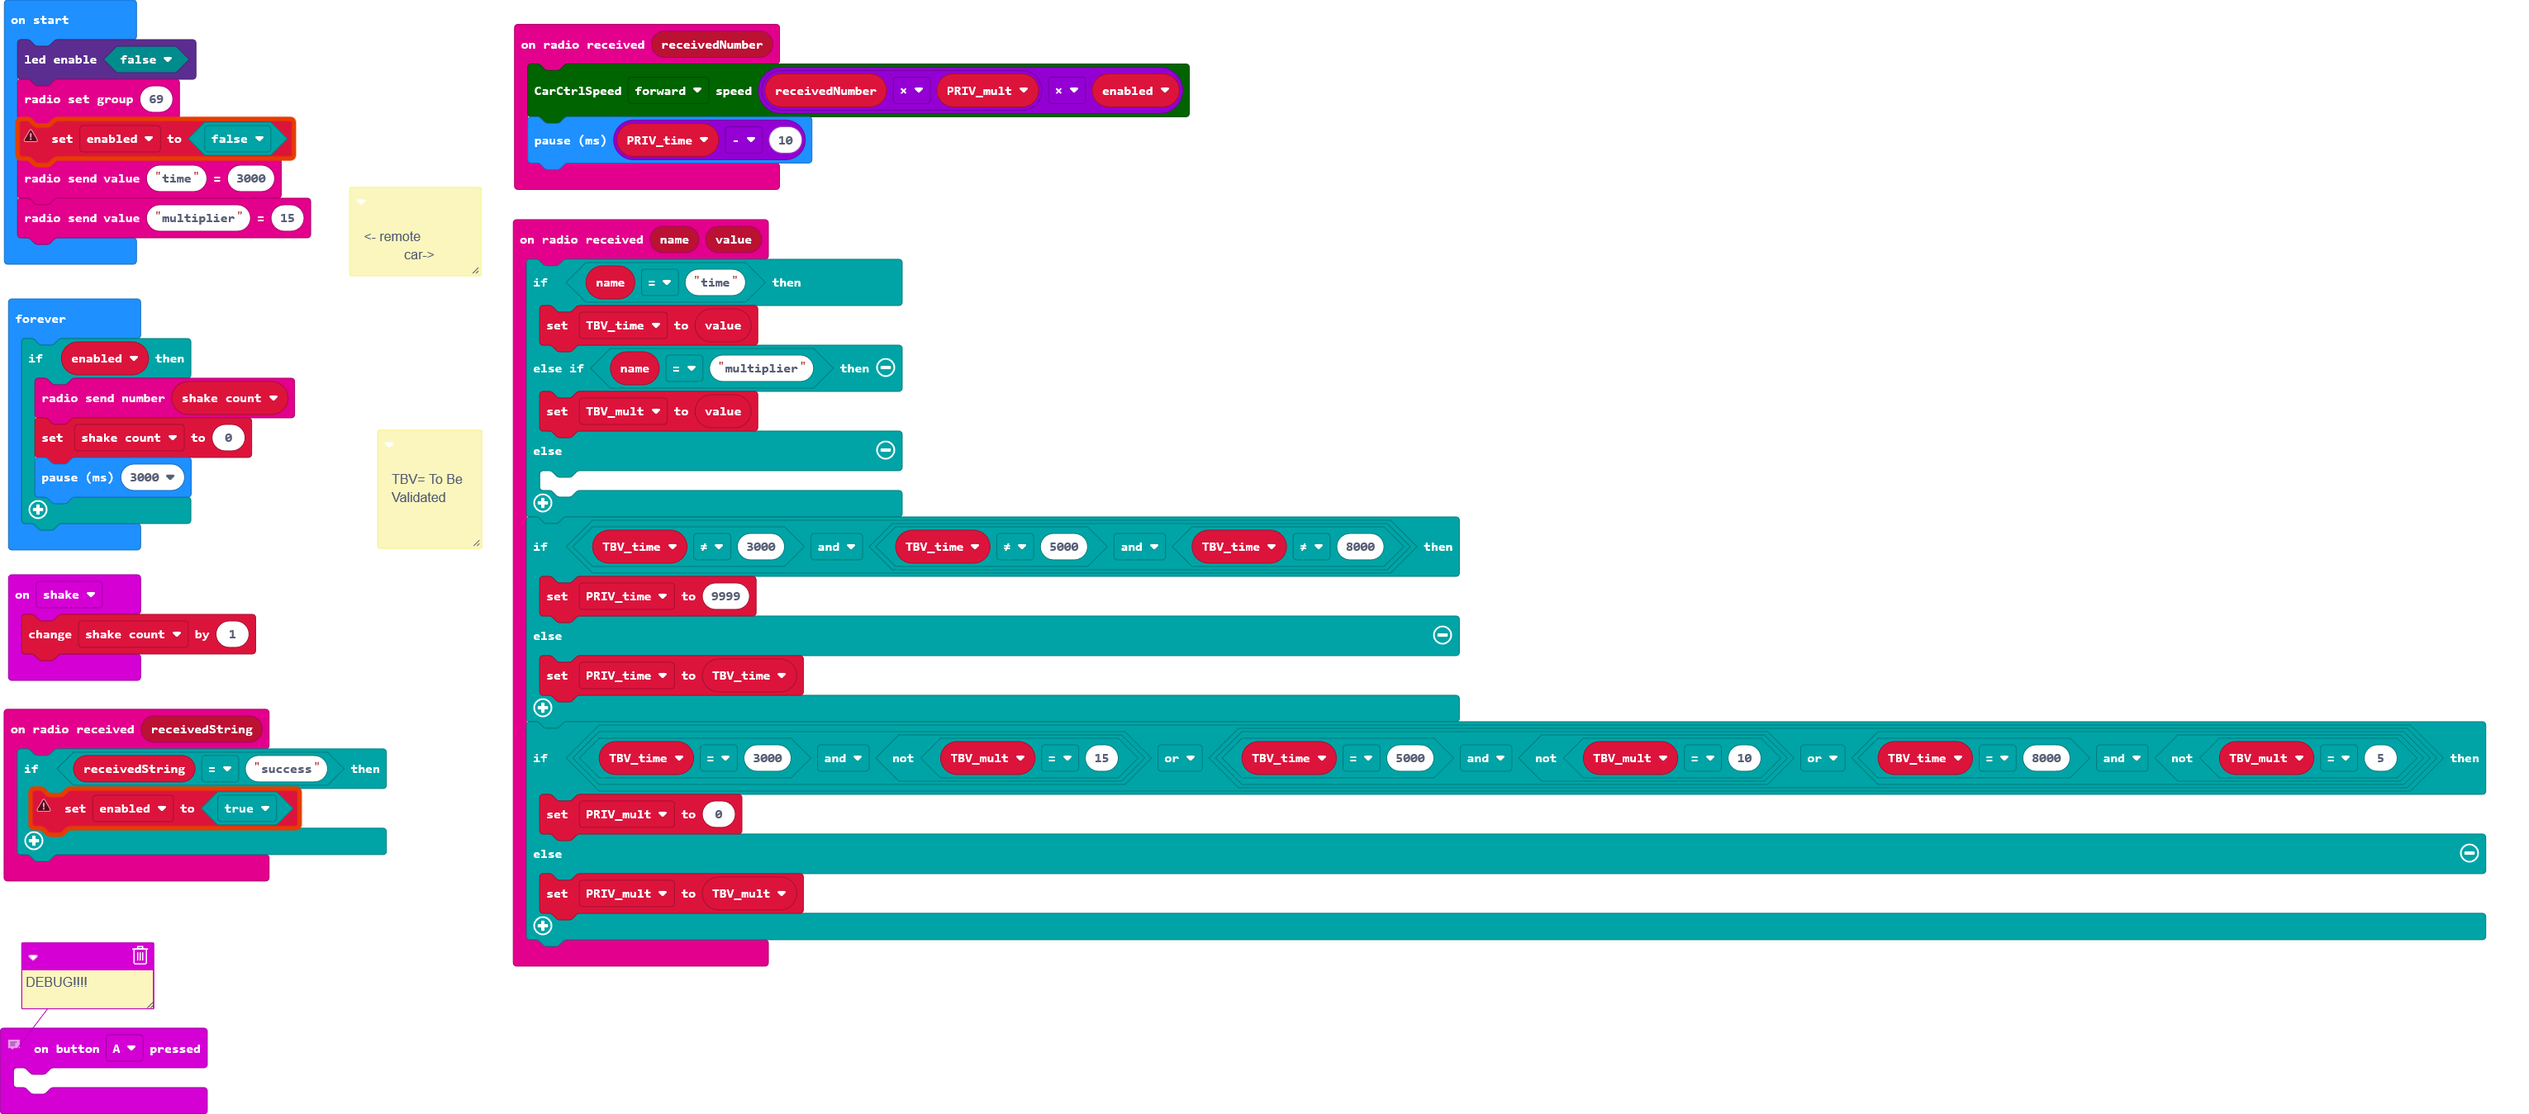
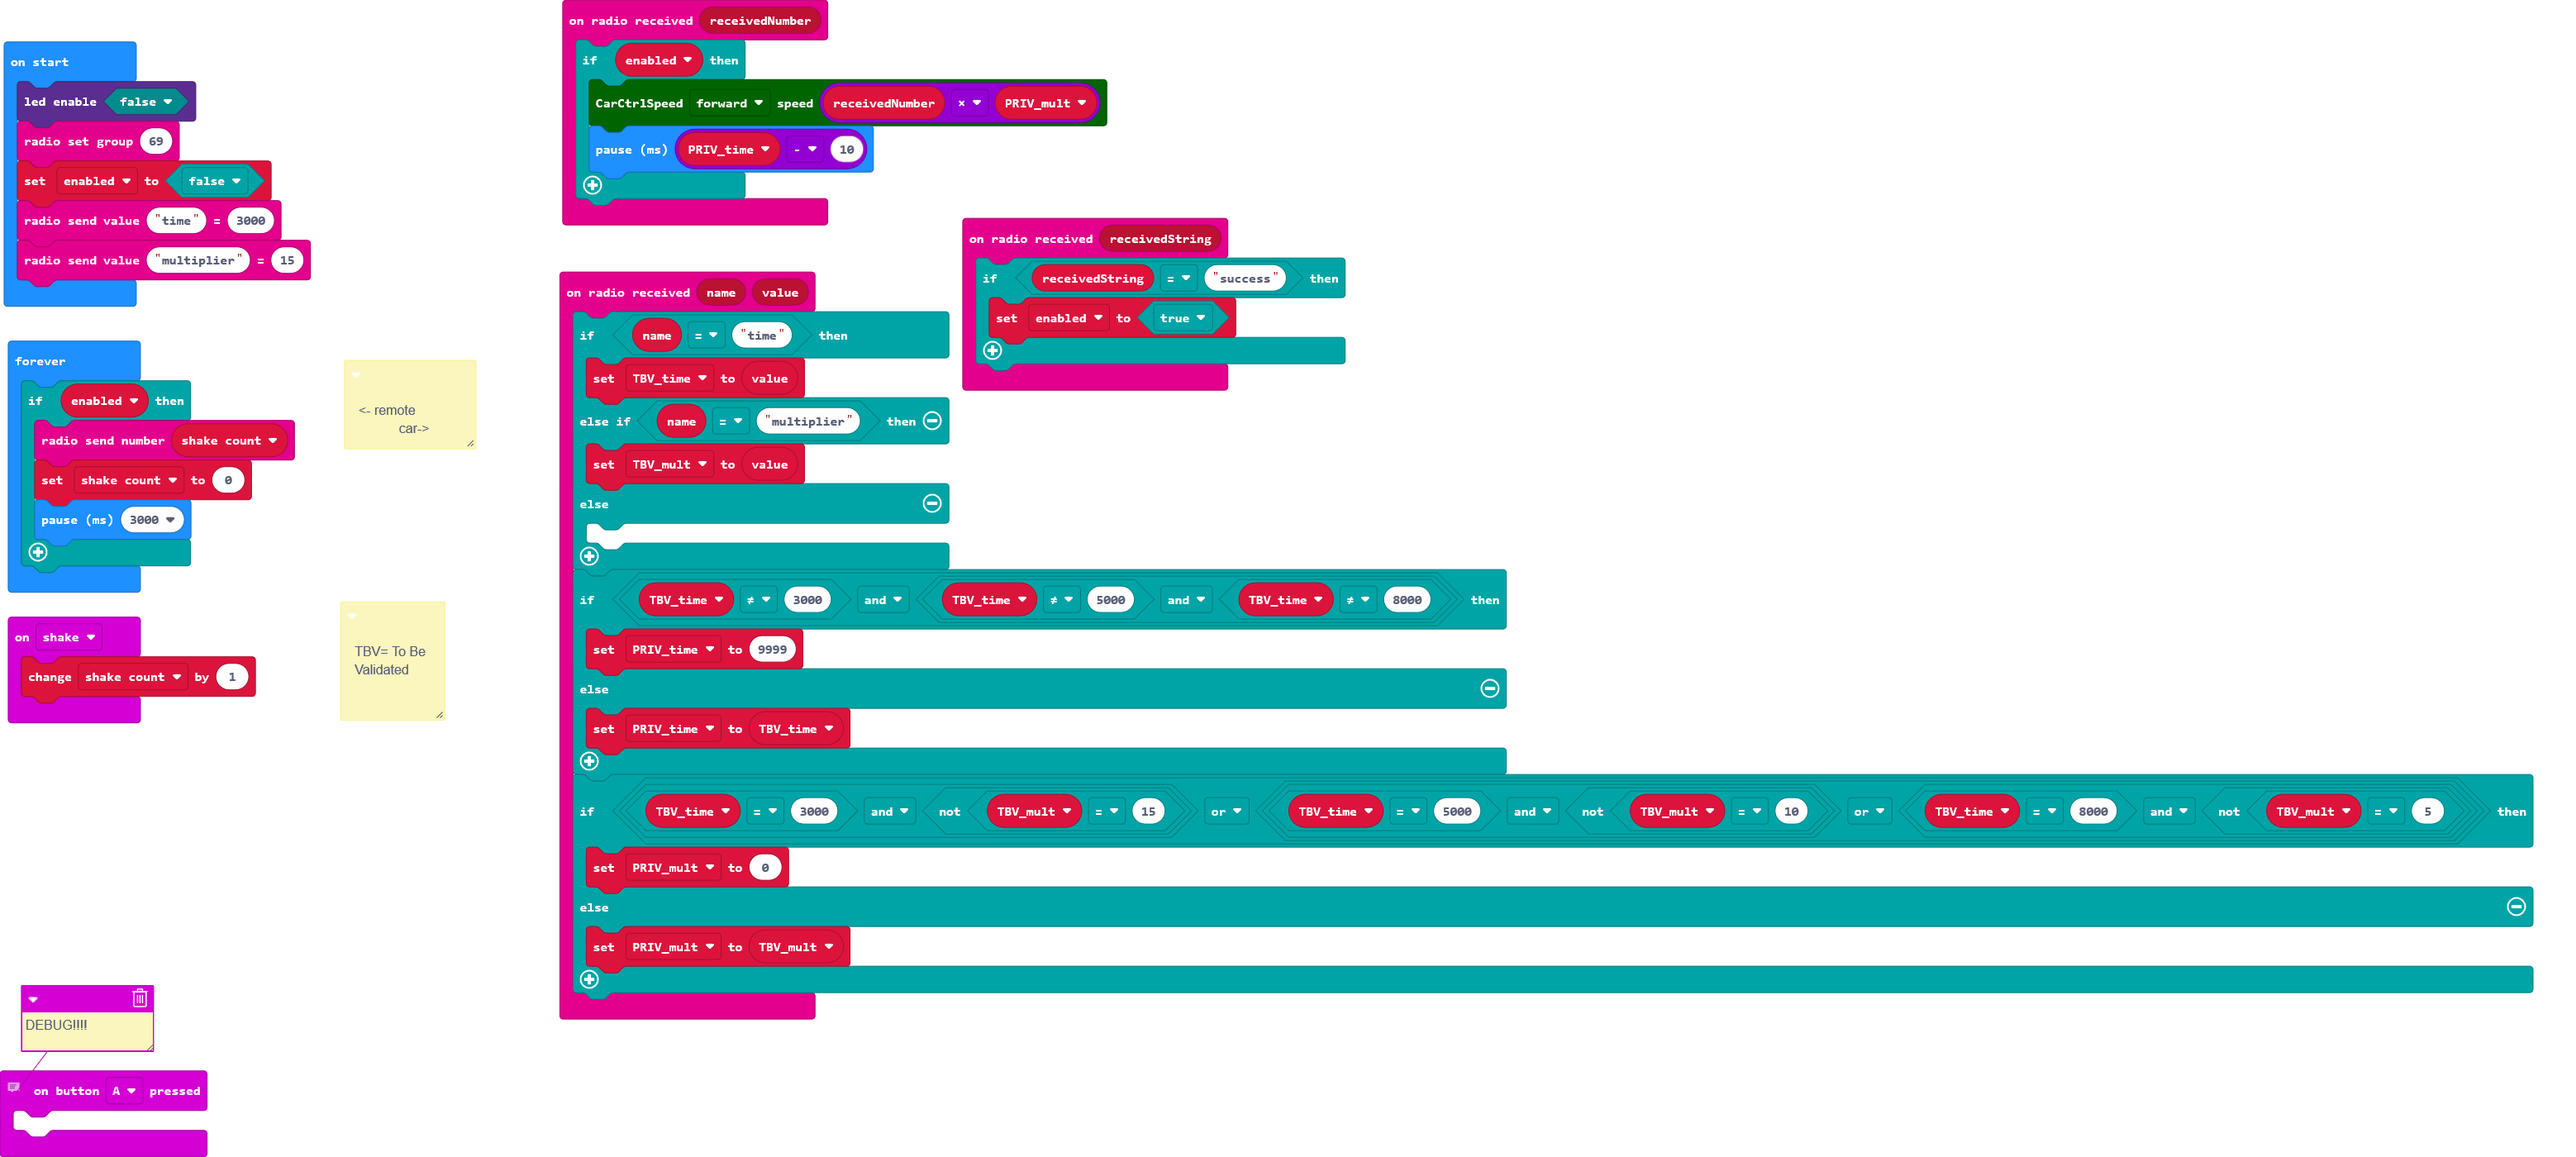
Update main.blocks, main.ts

diff --git a/main.ts b/main.ts
@@ -1,6 +1,8 @@
 radio.onReceivedNumber(function (receivedNumber) {
-    mbit_Robot.CarCtrlSpeed(mbit_Robot.CarState.Car_Run, receivedNumber * PRIV_mult * enabled)
-    basic.pause(PRIV_time - 10)
+    if (enabled) {
+        mbit_Robot.CarCtrlSpeed(mbit_Robot.CarState.Car_Run, receivedNumber * PRIV_mult)
+        basic.pause(PRIV_time - 10)
+    }
 })
 // DEBUG!!!!
 // 
@@ -34,22 +36,22 @@ radio.onReceivedValue(function (name, value) {
         PRIV_mult = TBV_mult
     }
 })
-/**
- * <- remote
- * 
- *            car->
- */
 let TBV_mult = 0
 let TBV_time = 0
 let shake_count = 0
 let PRIV_time = 0
 let PRIV_mult = 0
-let enabled = 0
+let enabled = false
 led.enable(false)
 radio.setGroup(69)
 enabled = false
 radio.sendValue("time", 3000)
 radio.sendValue("multiplier", 15)
+/**
+ * <- remote
+ * 
+ *            car->
+ */
 /**
  * TBV= To Be Validated
  */
